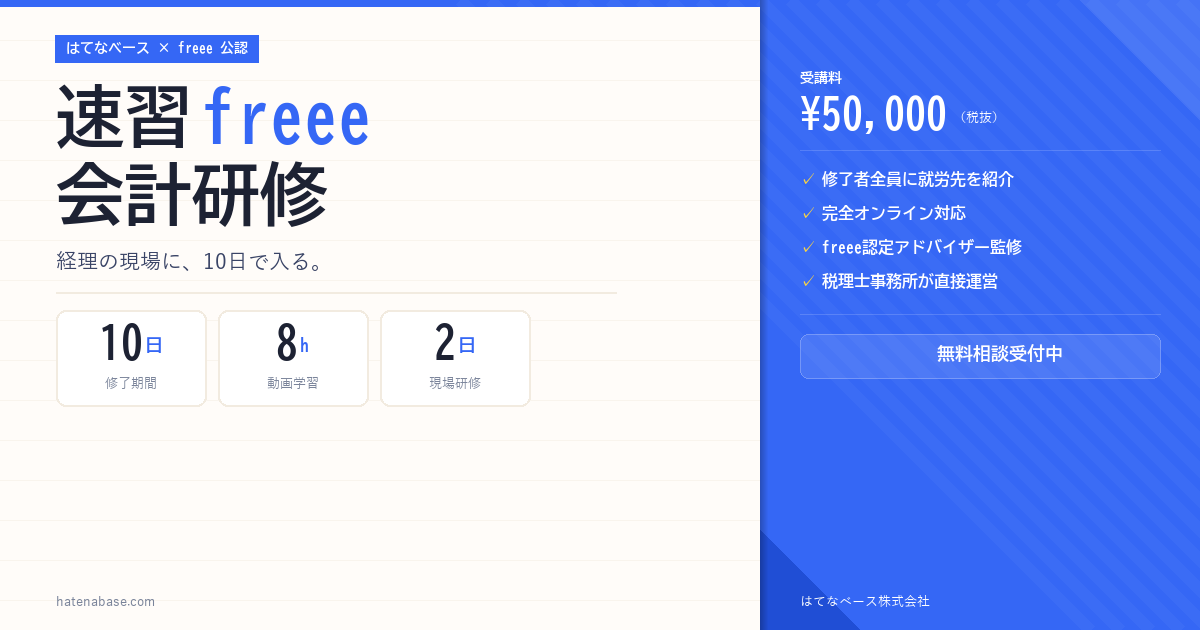
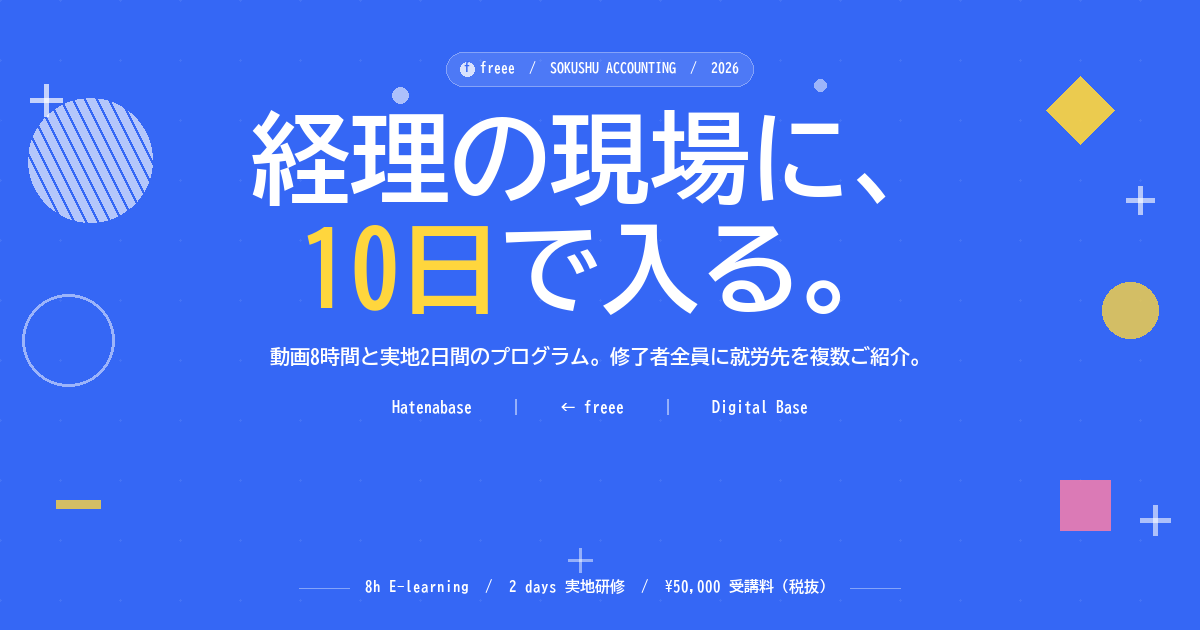
Redesign OGP thumbnail to match LP hero style

diff --git a/gen_ogp.py b/gen_ogp.py
@@ -1,170 +1,172 @@
-"""Generate OGP image - editorial split layout (1200x630)"""
+"""Generate OGP image matching LP hero (1200x630)"""
 from PIL import Image, ImageDraw, ImageFont
 import math
 
 W, H = 1200, 630
-SPLIT = 760  # 左パネルの幅
 
-# --- Colors ---
-CREAM    = (255, 252, 249)   # --paper
-CREAM2   = (242, 235, 224)   # --paper-2
-BLUE     = (53, 103, 245)    # --freee
-BLUE_D   = (23, 68, 199)     # --freee-deep
-INK      = (29, 34, 51)      # --ink
-INK_SOFT = (58, 68, 102)     # --ink-soft
-MUTED    = (122, 132, 154)
-YELLOW   = (255, 214, 61)    # --accent
-WHITE    = (255, 255, 255)
+BLUE   = (53, 103, 245)
+WHITE  = (255, 255, 255)
+YELLOW = (255, 214, 61)
+PINK   = (255, 126, 168)
+INK    = (29, 34, 51)
 
 FONT_DIR = "C:/Windows/Fonts/"
 def font(path, size):
     return ImageFont.truetype(FONT_DIR + path, size)
 
-f_h1     = font("BIZ-UDGothicB.ttc", 68)
-f_h1_sm  = font("BIZ-UDGothicB.ttc", 62)
-f_tag    = font("BIZ-UDGothicB.ttc", 14)
-f_sub    = font("YuGothM.ttc", 21)
-f_stat_n = font("BIZ-UDGothicB.ttc", 44)
-f_stat_u = font("BIZ-UDGothicB.ttc", 18)
-f_stat_l = font("YuGothM.ttc", 13)
-f_feat   = font("BIZ-UDGothicB.ttc", 16)
-f_feat_s = font("YuGothM.ttc", 13)
-f_price  = font("BIZ-UDGothicB.ttc", 42)
-f_price_l= font("BIZ-UDGothicB.ttc", 14)
-f_cta    = font("BIZ-UDGothicB.ttc", 18)
-f_foot   = font("YuGothM.ttc", 13)
+f_h1    = font("BIZ-UDGothicB.ttc", 100)
+f_h1_em = font("BIZ-UDGothicB.ttc", 100)
+f_badge = font("BIZ-UDGothicB.ttc", 14)
+f_sub   = font("BIZ-UDGothicB.ttc", 20)
+f_hint  = font("BIZ-UDGothicB.ttc", 15)
+f_logo  = font("BIZ-UDGothicB.ttc", 16)
 
-img  = Image.new("RGB", (W, H), CREAM)
+img  = Image.new("RGB", (W, H), BLUE)
 draw = ImageDraw.Draw(img, "RGBA")
 
+# ---- 背景の薄いグリッド（LPのドットっぽさ）----
+for x in range(0, W, 60):
+    for y in range(0, H, 60):
+        draw.ellipse([x-1, y-1, x+1, y+1], fill=(255,255,255,18))
+
 # ==============================
-# 左パネル（クリーム）
+# 幾何学デコレーション（LPと同じ配置イメージ）
 # ==============================
 
-# 薄いグリッド線（紙っぽさ）
-for y in range(0, H, 40):
-    draw.line([(0, y), (SPLIT, y)], fill=(*CREAM2, 120))
+def plus(cx, cy, size, color, alpha=200, width=4):
+    a = (*color, alpha)
+    half = size // 2
+    thin = width // 2
+    draw.rectangle([cx-thin, cy-half, cx+thin, cy+half], fill=a)
+    draw.rectangle([cx-half, cy-thin, cx+half, cy+thin], fill=a)
 
-# 上部アクセントバー
-draw.rectangle([0, 0, SPLIT, 6], fill=BLUE)
+def circle_outline(cx, cy, r, color, alpha=160, width=3):
+    draw.ellipse([cx-r, cy-r, cx+r, cy+r],
+                 outline=(*color, alpha), width=width)
 
-# タグ
-TAG_X, TAG_Y = 56, 36
-tag_text = "はてなベース × freee 公認"
-tw = draw.textlength(tag_text, font=f_tag)
-draw.rectangle([TAG_X-1, TAG_Y-1, TAG_X+tw+20, TAG_Y+26], fill=BLUE)
-draw.text((TAG_X+10, TAG_Y+4), tag_text, font=f_tag, fill=WHITE)
+def circle_filled(cx, cy, r, color, alpha=220):
+    draw.ellipse([cx-r, cy-r, cx+r, cy+r], fill=(*color, alpha))
 
+def diamond(cx, cy, size, color, alpha=220):
+    s = size // 2
+    draw.polygon([(cx, cy-s), (cx+s, cy), (cx, cy+s), (cx-s, cy)],
+                 fill=(*color, alpha))
+
+def striped_circle(cx, cy, r, color, alpha=160):
+    """斜線入り円（LPの左上のやつ）"""
+    bbox = [cx-r, cy-r, cx+r, cy+r]
+    mask = Image.new("RGBA", (W, H), (0,0,0,0))
+    md = ImageDraw.Draw(mask)
+    md.ellipse(bbox, fill=(*color, alpha))
+    # 斜線を上から重ねる
+    for i in range(-r*2, r*2, 12):
+        md.line([(cx-r+i, cy-r), (cx+i, cy+r)],
+                fill=(BLUE[0], BLUE[1], BLUE[2], alpha), width=3)
+    img.paste(mask, mask=mask)
+
+# 左上：斜線円
+striped_circle(90, 160, 62, WHITE)
+
+# 左上：+ 大
+plus(46, 100, 32, WHITE, alpha=180, width=5)
+
+# 左中：空白円
+circle_outline(68, 340, 46, WHITE, alpha=130, width=3)
+
+# 左下：- ダッシュ
+draw.rectangle([56, 500, 100, 508], fill=(*YELLOW, 200))
+
+# 右上：黄色ダイヤ
+diamond(1080, 110, 68, YELLOW, alpha=230)
+
+# 右上：+
+plus(1140, 200, 28, WHITE, alpha=160, width=4)
+
+# 右中：塗り円
+circle_filled(1130, 310, 28, YELLOW, alpha=200)
+
+# 右下：ピンク四角
+draw.rectangle([1060, 480, 1110, 530], fill=(*PINK, 210))
+
+# 右下：+
+plus(1155, 520, 30, WHITE, alpha=150, width=4)
+
+# 中央下あたり：+
+plus(580, 560, 24, WHITE, alpha=120, width=3)
+
+# 上中央あたりの点
+circle_filled(400, 95, 8, WHITE, alpha=150)
+circle_filled(820, 85, 6, WHITE, alpha=130)
+
+# ==============================
+# バッジ（上部）
+# ==============================
+badge_text = "freee  /  SOKUSHU ACCOUNTING  /  2026"
+bw = draw.textlength(badge_text, font=f_badge) + 48
+bx = (W - bw) // 2
+by = 52
+draw.rounded_rectangle([bx, by, bx+bw, by+34], radius=17,
+                        fill=(255,255,255,30), outline=(255,255,255,80), width=1)
+# freee ロゴ風の小さい丸
+draw.ellipse([bx+14, by+10, bx+28, by+24], fill=(255,255,255,200))
+draw.text((bx+18, by+8), "f", font=font("BIZ-UDGothicB.ttc", 13), fill=BLUE)
+draw.text((bx+34, by+8), badge_text, font=f_badge, fill=(255,255,255,220))
+
+# ==============================
 # メインタイトル
-TX, TY = 56, 82
-# "速習" 行
-draw.text((TX, TY), "速習", font=f_h1, fill=INK)
-sw = draw.textlength("速習", font=f_h1)
-# "freee" をブルーで inline
-draw.text((TX + sw + 10, TY), "freee", font=f_h1, fill=BLUE)
-fw = draw.textlength("freee", font=f_h1)
-# "会計研修" 行
-draw.text((TX, TY + 78), "会計研修", font=f_h1, fill=INK)
+# ==============================
+line1 = "経理の現場に、"
+line2_w = "10日"
+line2_r = "で入る。"
 
-# サブタイトル
-draw.text((TX, TY + 168), "経理の現場に、10日で入る。", font=f_sub, fill=INK_SOFT)
+# line1
+l1w = draw.textlength(line1, font=f_h1)
+draw.text(((W - l1w) // 2, 108), line1, font=f_h1, fill=WHITE)
 
-# 区切り線
-draw.line([(TX, TY+210), (TX+560, TY+210)], fill=(*CREAM2, 255), width=2)
-
-# 数字バッジ（stats row）
-stats = [
-    ("10", "日",  "修了期間"),
-    ("8",  "h",   "動画学習"),
-    ("2",  "日",  "現場研修"),
-]
-BX = TX
-BY = TY + 228
-BW = 150
-BH = 96
-for i, (num, unit, label) in enumerate(stats):
-    bx = BX + i * (BW + 12)
-    draw.rounded_rectangle([bx, BY, bx+BW, BY+BH], radius=10,
-                            fill=WHITE, outline=(*CREAM2, 255), width=2)
-    nw = draw.textlength(num, font=f_stat_n)
-    uw = draw.textlength(unit, font=f_stat_u)
-    total = nw + uw + 2
-    nx = bx + (BW - total) // 2
-    draw.text((nx, BY+10), num, font=f_stat_n, fill=INK)
-    draw.text((nx+nw+2, BY+26), unit, font=f_stat_u, fill=BLUE)
-    lw = draw.textlength(label, font=f_stat_l)
-    draw.text((bx + (BW-lw)//2, BY+66), label, font=f_stat_l, fill=MUTED)
-
-# フッター（左下）
-draw.text((TX, H-36), "hatenabase.com", font=f_foot, fill=(*MUTED, 180))
+# line2: "10日" を黄色、残りを白
+l2w_yellow = draw.textlength(line2_w, font=f_h1_em)
+l2w_white  = draw.textlength(line2_r, font=f_h1)
+l2_total   = l2w_yellow + l2w_white
+l2x = (W - l2_total) // 2
+draw.text((l2x, 218), line2_w, font=f_h1_em, fill=YELLOW)
+draw.text((l2x + l2w_yellow, 218), line2_r, font=f_h1, fill=WHITE)
 
 # ==============================
-# 右パネル（ブルー）
+# サブテキスト
 # ==============================
-
-# 右パネル背景
-draw.rectangle([SPLIT, 0, W, H], fill=BLUE)
-
-# 右パネル内の斜めストライプ（さりげない）
-for i in range(-10, 30):
-    x0 = SPLIT + i * 30
-    draw.line([(x0, 0), (x0 + H, H)], fill=(255,255,255, 8), width=12)
-
-# 右上角の三角アクセント
-draw.polygon([(W-120, 0), (W, 0), (W, 120)], fill=(255,255,255, 20))
-# 左下角アクセント
-draw.polygon([(SPLIT, H-100), (SPLIT+100, H), (SPLIT, H)], fill=(23,68,199, 180))
-
-# 右パネルコンテンツ
-RX = SPLIT + 40
-RW = W - SPLIT - 40
-
-# 受講料ブロック
-ry = 70
-draw.text((RX, ry), "受講料", font=f_price_l, fill=(255,255,255,160))
-ry += 22
-pw = draw.textlength("¥50,000", font=f_price)
-draw.text((RX, ry), "¥50,000", font=f_price, fill=WHITE)
-draw.text((RX+pw+6, ry+18), "（税抜）", font=f_foot, fill=(255,255,255,140))
-ry += 58
-
-# 区切り
-draw.line([(RX, ry), (W-40, ry)], fill=(255,255,255,40), width=1)
-ry += 20
-
-# 特徴リスト
-features = [
-    ("✓", "修了者全員に就労先を紹介"),
-    ("✓", "完全オンライン対応"),
-    ("✓", "freee認定アドバイザー監修"),
-    ("✓", "税理士事務所が直接運営"),
-]
-for icon, text in features:
-    draw.text((RX, ry), icon, font=f_feat, fill=YELLOW)
-    draw.text((RX+22, ry), text, font=f_feat, fill=WHITE)
-    ry += 34
-
-# 区切り
-ry += 8
-draw.line([(RX, ry), (W-40, ry)], fill=(255,255,255,40), width=1)
-ry += 20
-
-# CTA テキスト
-cta = "無料相談受付中"
-draw.rounded_rectangle([RX, ry, W-40, ry+44], radius=8,
-                        fill=(255,255,255,25), outline=(255,255,255,60), width=1)
-cw = draw.textlength(cta, font=f_cta)
-draw.text((RX + (RW - cw)//2, ry+10), cta, font=f_cta, fill=WHITE)
-
-# 右パネル下部 ブランド
-draw.text((RX, H-36), "はてなベース株式会社", font=f_foot, fill=(255,255,255,120))
+sub = "動画8時間と実地2日間のプログラム。修了者全員に就労先を複数ご紹介。"
+sw = draw.textlength(sub, font=f_sub)
+draw.text(((W - sw) // 2, 346), sub, font=f_sub, fill=(255,255,255,210))
 
 # ==============================
-# 左右の境界線シャドウ
+# ロゴ strip（中段）
 # ==============================
-for i in range(8):
-    alpha = int(60 * (1 - i/8))
-    draw.line([(SPLIT+i, 0), (SPLIT+i, H)], fill=(0,0,0,alpha))
+logo_y = 398
+sep_color = (255,255,255,80)
+
+logos = ["Hatenabase", "|", "← freee", "|", "Digital Base"]
+total_lw = sum(draw.textlength(t, font=f_logo) for t in logos) + 40 * (len(logos)-1)
+lx = (W - total_lw) // 2
+for t in logos:
+    tw = draw.textlength(t, font=f_logo)
+    color = (255,255,255,160) if t == "|" else (255,255,255,210)
+    draw.text((lx, logo_y), t, font=f_logo, fill=color)
+    lx += tw + 40
+
+# ==============================
+# ヒントライン（下部）
+# ==============================
+hint = "8h E-learning  /  2 days 実地研修  /  ¥50,000 受講料（税抜）"
+hw = draw.textlength(hint, font=f_hint)
+hx = (W - hw) // 2
+hy = H - 52
+# 左右の線
+line_len = 50
+draw.line([(hx - line_len - 16, hy+10), (hx - 16, hy+10)],
+          fill=(255,255,255,100), width=1)
+draw.line([(hx + hw + 16, hy+10), (hx + hw + 16 + line_len, hy+10)],
+          fill=(255,255,255,100), width=1)
+draw.text((hx, hy), hint, font=f_hint, fill=(255,255,255,180))
 
 # 保存
 out = "C:/Users/fumik/hatenabase-freee-training/images/ogp.png"
